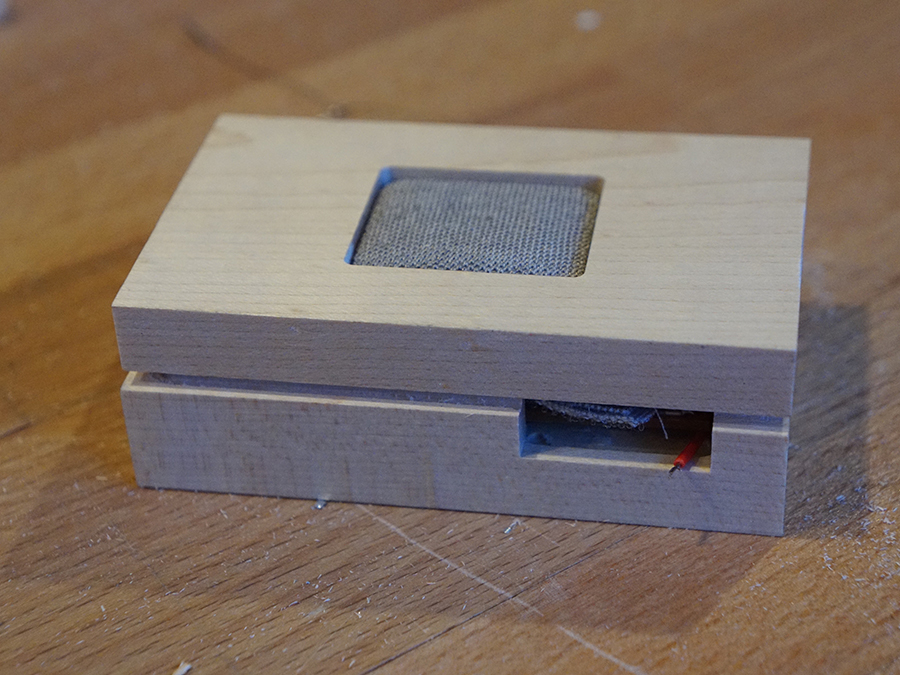
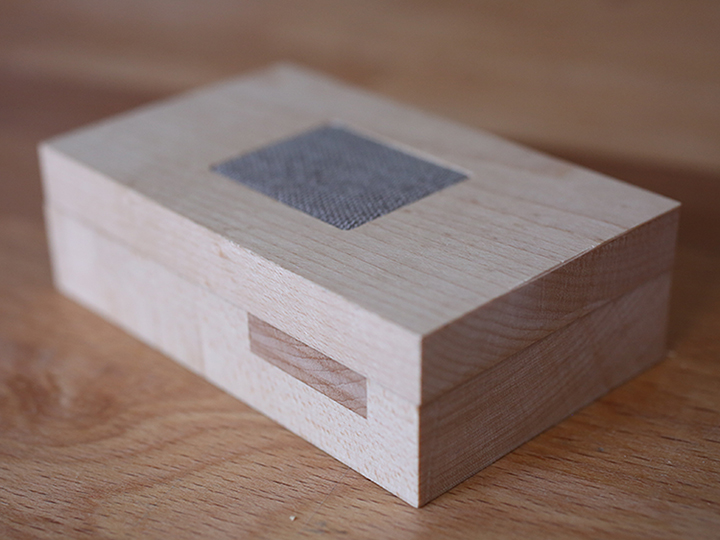
Edits and better Koko images

diff --git a/Koko.html b/Koko.html
@@ -37,20 +37,20 @@
 	
 		<span>
 		
-			KOKO is a project I collaborated on with <a id="link" href="http://www.imdarrien.com/">Darrien Tu</a>, a design intern at Tomorrow Lab, intended for people in long-distance relationships. The idea behind it is that while digital communication in its many forms makes such relationships easier than they once were, there is still something missing when two people can only communicate through glass and pixels. Our goal was essentially to shroud the digital abstraction in a layer of  aesthetic materials and broad sensory experiences to bring the communication back into the physical world to the extent possible.
+			KOKO is a project I collaborated on with <a id="link" href="http://www.imdarrien.com/">Darrien Tu</a>, a design intern at Tomorrow Lab, intended for people in long-distance relationships. The idea behind it is that  digital communication in its many forms makes such relationships easier than they once were, but there is still something missing when two people can only communicate through glass and pixels. Our goal was essentially to shroud the digital abstraction in a layer of  aesthetic materials and broad sensory experiences to bring their correspondence back into the physical world.
 			
 			<figure>
     			<img id="image" src="img/Koko/KokoInside.jpg">
 			</figure> 
 		
-			We determined that our product would consist of two cloud connected devices: a remote device that would live with someone far from home and detect basic types of their interaction, and a home device that would stay with their family or significant other and have a set of corresponding tactile outputs. To decide on the exact set of inputs and outputs, our design principle was the idea of <i>scale</i>. Is the remote person in the same room as the device, within arm’s reach, touching it, or actually holding it in their hand? The outputs needed to match up to the inputs in terms of scale - that is, if the person were in the same room as the remote device, anyone in the same room as the home device should be made aware.
+			We determined that our product would consist of two cloud-connected devices: a remote device that would live with someone far from home and detect basic types of their interaction, and a home device that would stay with their family or significant other and have a set of corresponding tactile outputs. To decide on the exact set of inputs and outputs, our design principle was the idea of <i>scale</i>. Is the remote person in the same room as the device, within arm’s reach, touching it, or actually holding it in their hand? The outputs needed to match up to the inputs in terms of scale - that is, if the person were in the same room as the remote device, anyone in the same room as the home device should be made aware.
 
 			
 			<figure>
     			<img id="image" src="img/Koko/KokoScale.png">
 			</figure> 	
 			
-			We chose the Particle platform for its out-of-the-box usability, small footprint, and ease of prototyping. Incorporating conductive fabric gave the product a really nice texture and an easy way to do capacitive touch sensing. The home device uses a series of cubes, each a result of a study of interesting materials, that use light, vibration, and heat to signify that the remote person is present, touching, or holding their device. Early looks-like prototypes explored using a rounded shape and large radii to make the remote device comfortable to hold. The final design was made with high-quality wood and a rectangular form that corresponded more closely with the home device.
+			We chose the Particle platform for cloud connectivity for its out-of-the-box usability, small footprint, and ease of prototyping. Incorporating conductive fabric gave the product a really nice texture and an easy way to do capacitive touch sensing. The home device uses a series of cubes, each very different from the glass, polymers and silicon that are hallmarks of digital devices, that output different physical signals to denote the remote person's level of interaction. Light means that they are in the same room as their device. Vibration occurs when they touch it. And heat when they pick it up and hold it in their hand. Early looks-like prototypes explored using a rounded shape and large radii to make the remote device comfortable to hold. The final design was made with high-quality maple and a rectangular form that corresponded more closely with the home device.
 			
 			<figure>
     			<img id="image" src="img/Koko/KokoPCB.gif">

diff --git a/Main.html b/Main.html
@@ -36,6 +36,10 @@
             <span class="rig-arrow">Read on &rarr;</span>
             </span>
         </a>
+        <span class="rig-skill">Particle</span>
+        <span class="rig-skill">CAD</span>
+        <span class="rig-skill">CAM</span>
+        <span class="rig-skill">Circuit Design</span>
     </li>
     <li>
         <a class="rig-cell" href="WayCount.html">
@@ -48,6 +52,8 @@
             <span class="rig-arrow">Read on &rarr;</span>
             </span>
         </a>
+        <span class="rig-skill">Circuit Design</span>
+        <span class="rig-skill">Testing</span>
     </li>
 	<li>
         <a class="rig-cell" href="LittleDataRevival.html">
@@ -60,6 +66,9 @@
             <span class="rig-arrow">Read on &rarr;</span>
             </span>
         </a>
+        <span class="rig-skill">Raspberry Pi</span>
+        <span class="rig-skill">Flask</span>
+        <span class="rig-skill">Teensy</span>
     </li>
 	<li>
         <a class="rig-cell" href="Jig.html">
@@ -72,6 +81,8 @@
             <span class="rig-arrow">Read on &rarr;</span>
             </span>
         </a>
+        <span class="rig-skill">3D Printing</span>
+        <span class="rig-skill">Mechanism Design</span>
     </li>
 	<li>
         <a class="rig-cell" href="WeightMachine.html">

diff --git a/css/styles3.css b/css/styles3.css
@@ -270,7 +270,7 @@ div.bottom {
 
 .rig-skill {
 	color: white;
-	background-color: #54555c;
+	background-color: #6882ad;
 	display: inline-block;
 	padding: 5pt 6pt;
 	margin: 3px;
